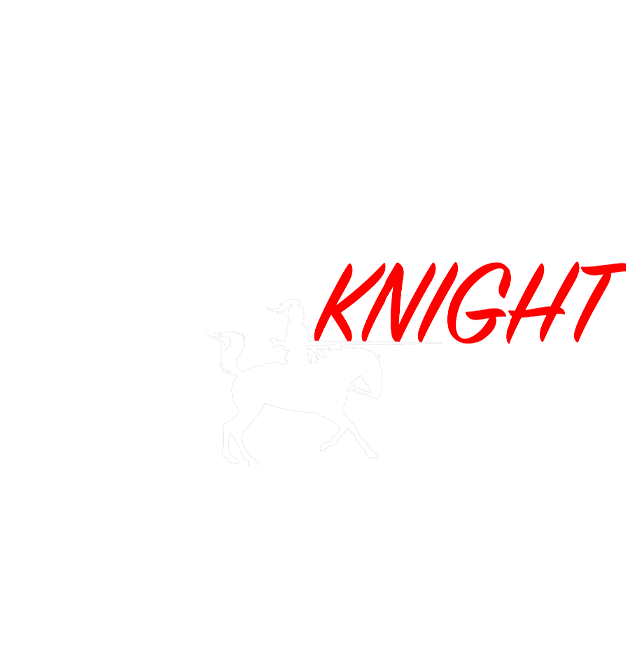
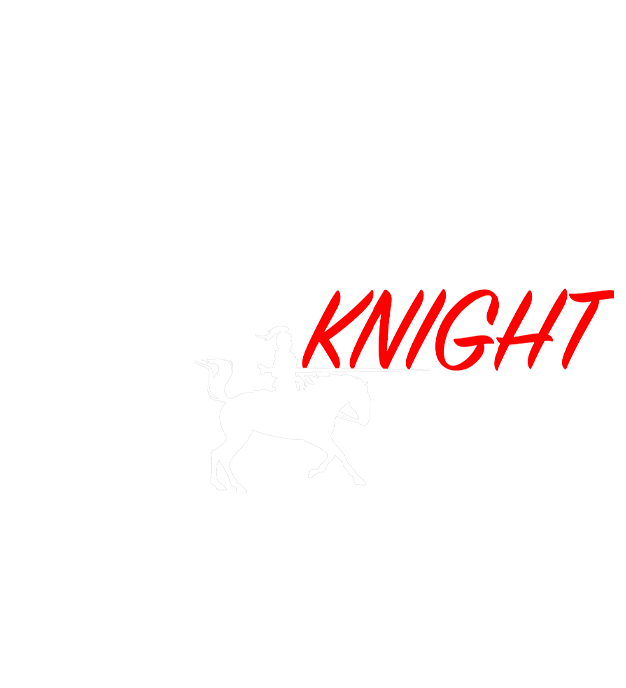
homepage 2.0.0

Changed region(s): [[0.4856, 0.3933, 1.0, 0.5446]]

diff --git a/css/style.css b/css/style.css
@@ -40,7 +40,14 @@ p{
     content: "~";
     display: block;
 }
-
+.btn-danger{
+    background-color: #ff0000!important;
+}
+.btn-submit{
+    background-color: #5729cd;
+    color: #fff;
+    
+}
 /*========================================HEADERS========================================*/
 /*====================MAIN-HEADER==========================*/
 .main-header{
@@ -57,7 +64,7 @@ p{
 }
 .main-header-text{
     position: absolute;
-    top: 25%;
+    top: 15%;
     right: 5%;
     padding: 20px;
 }
@@ -304,8 +311,10 @@ font-weight: normal;
 }
 .section-form .btn{
     width: 100%;
-    font-size: 30px;
+    height: 100%;
+    font-size: 20px;
     border: 1px solid #000;
+
     /*box-shadow: 0 2px 5px 2px rgba(0, 0, 0, .95);*/
 }
 /*=====================================MAIN FOOTER==================================================*/

diff --git a/index.html b/index.html
@@ -513,7 +513,7 @@
                             </textarea>
                         </div>
                         <div class="form-group col-md-2">
-                            <button type="submit" class="btn btn-danger">Sign in</button>
+                            <button type="submit" class="btn btn-submit">Sign in</button>
                         </div>
                     </div><!----------End form-row--------------->
                     <div class="form-check">
